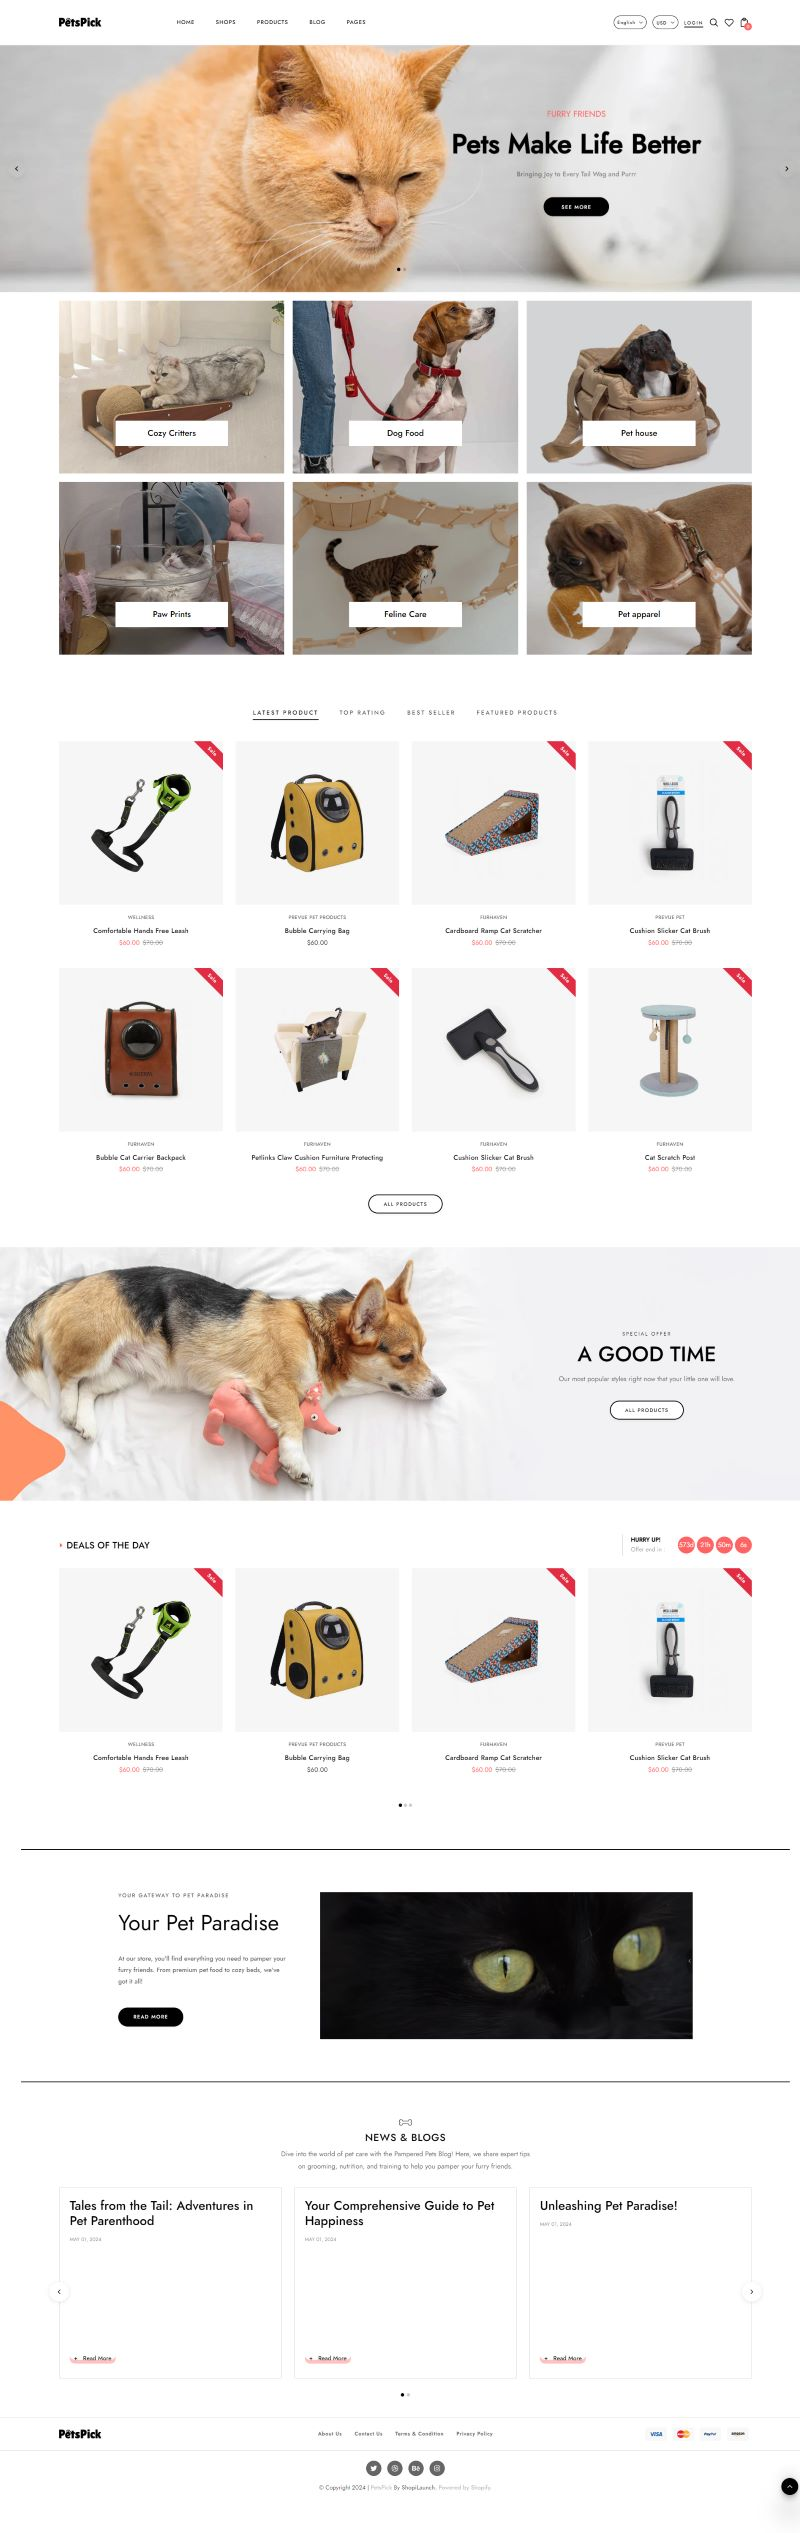
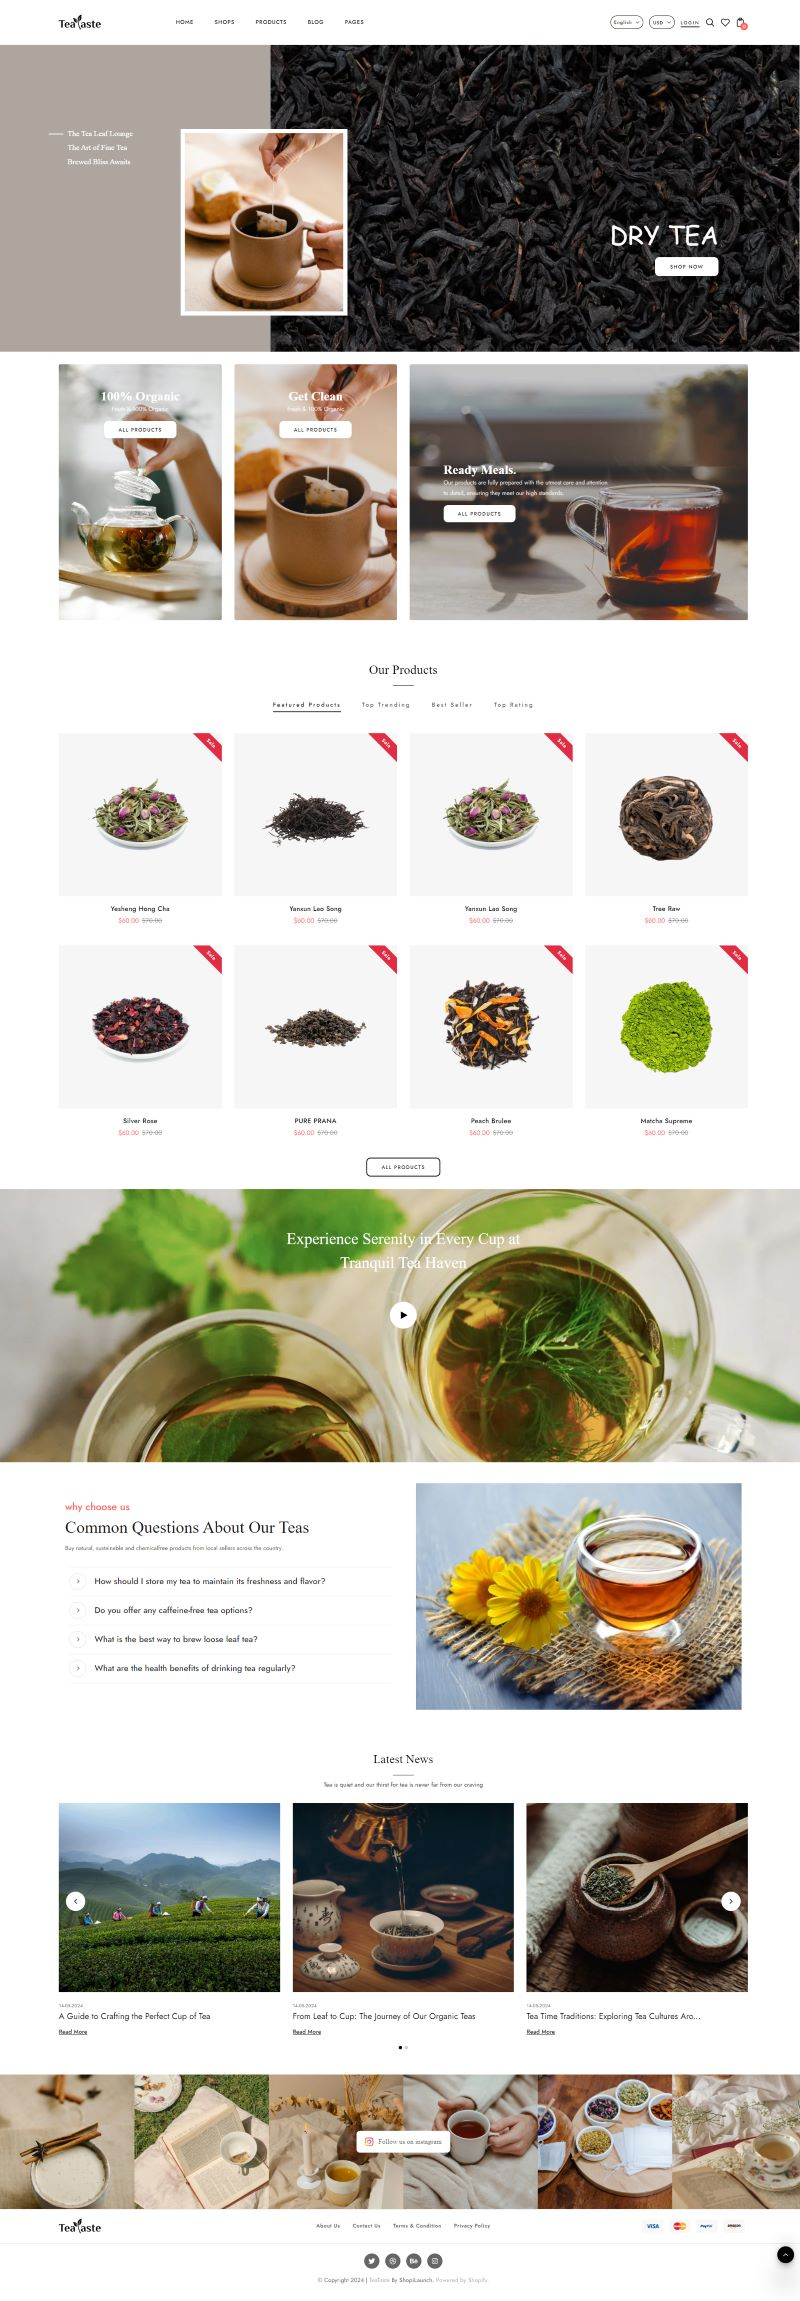
update image

diff --git a/index.html b/index.html
@@ -19,7 +19,7 @@
     <link href="https://fonts.googleapis.com/css2?family=Jost:ital,wght@1,300;1,400&family=Roboto&display=swap"
         rel="stylesheet">
     <link href="https://fonts.googleapis.com/css2?family=Yellowtail&display=swap" rel="stylesheet">
-    <title>PetsPick - Pet Store & Pet Care Shopify 2.0 Theme</title>
+    <title>TeaTaste - Organic Tea Store Responsive Shopify 2.0 Theme</title>
 </head>
 
 <body>
@@ -208,7 +208,7 @@
                 <div class="container-fluid demo-item text-center"
                     data-url="https://skine-store-demo.myshopify.com/?preview_theme_id=120244404431">
                     <h1 class="mb-5">
-                        Get Started With PetsPick<br><span>Pet Store & Pet Care Shopify 2.0 Theme</span>
+                        Get Started With TeaTaste<br><span>Organic Tea Store Responsive Shopify 2.0 Theme</span>
                     </h1>
                 </div>
                 <div class="container">
@@ -256,7 +256,7 @@
         <div class="header__bg"></div>
         <div id="product-layout" class="row-4 list-shop-layout">
             <div class="brand-heading">
-                The smart choice for ecommerce: Over <span>15,000+</span> brands trust PetsPick to build their Shopify
+                The smart choice for ecommerce: Over <span>15,000+</span> brands trust TeaTaste to build their Shopify
                 stores!
             </div>
             <div class="shop-layout-content">
@@ -380,7 +380,7 @@
                 <div class="row content">
                     <div class="col-sm-6 col-md-4 col-lg-4 wow fadeInUp" data-wow-delay="0.1s">
                         <div class="demo-item"
-                            data-url="https://PetsPick-store-newdemo.myshopify.com/">
+                            data-url="https://TeaTaste-store-newdemo.myshopify.com/">
                             <div class="demo-thumb-wrap">
                                 <div class="demo-thumb demo1">
                                     <span class="new">new</span>
@@ -408,7 +408,7 @@
                     <div class="col-sm-6 col-md-4 col-lg-4 wow fadeInUp" data-wow-delay="0.2s"
                         style="visibility: visible; animation-delay: 0.2s; animation-name: fadeInUp;">
                         <div class="demo-item"
-                            data-url="https://PetsPick-store-newdemo.myshopify.com/pages/home-2">
+                            data-url="https://TeaTaste-store-newdemo.myshopify.com/pages/home-2">
                             <div class="demo-thumb-wrap">
                                 <div class="demo-thumb demo2">
                                     <span class="new">new</span>
@@ -437,7 +437,7 @@
                     <div class="col-sm-6 col-md-4 col-lg-4 wow fadeInUp" data-wow-delay="0.3s"
                         style="visibility: visible; animation-delay: 0.3s; animation-name: fadeInUp;">
                         <div class="demo-item"
-                            data-url="https://PetsPick-store-newdemo.myshopify.com/pages/home-3">
+                            data-url="https://TeaTaste-store-newdemo.myshopify.com/pages/home-3">
                             <div class="demo-thumb-wrap">
                                 <div class="demo-thumb demo3">
                                     <span class="new">new</span>
@@ -466,7 +466,7 @@
                     <div class="col-sm-6 col-md-4 col-lg-4 wow fadeInUp" data-wow-delay="0.4s"
                         style="visibility: visible; animation-delay: 0.4s; animation-name: fadeInUp;">
                         <div class="demo-item"
-                            data-url="https://PetsPick-store-newdemo.myshopify.com/pages/home-4">
+                            data-url="https://TeaTaste-store-newdemo.myshopify.com/pages/home-4">
                             <div class="demo-thumb-wrap">
                                 <div class="demo-thumb demo4">
                                     <a class="js-demo-link-click" href="javascript:void(0)"></a>
@@ -494,7 +494,7 @@
                     <div class="col-sm-6 col-md-4 col-lg-4 wow fadeInUp" data-wow-delay="0.5s"
                         style="visibility: visible; animation-delay: 0.5s; animation-name: fadeInUp;">
                         <div class="demo-item"
-                            data-url="https://PetsPick-store-newdemo.myshopify.com/pages/home-5">
+                            data-url="https://TeaTaste-store-newdemo.myshopify.com/pages/home-5">
                             <div class="demo-thumb-wrap">
                                 <div class="demo-thumb demo5">
                                     <a class="js-demo-link-click" href="javascript:void(0)"></a>
@@ -545,7 +545,7 @@
                 <div class="row content">
                     <div class="layout-item wow fadeInUp2">
                         <div class="shop-layout-thumb"
-                            data-url="https://PetsPick-store-newdemo.myshopify.com/collections/bags">
+                            data-url="https://TeaTaste-store-newdemo.myshopify.com/collections/bags">
                             <div class="demo-layout layout1">
                                 <a class="js-link-click-layout" href="javascript:void(0)">
                                     <img src="assets/images/shop_layout_1.png" alt="">
@@ -559,7 +559,7 @@
                     <div class="layout-item wow fadeInUp2" data-wow-delay="1s"
                         style="visibility: visible; animation-delay: 1s; animation-name: fadeInUp2;">
                         <div class="shop-layout-thumb"
-                            data-url="https://PetsPick-store-newdemo.myshopify.com/collections/shoes">
+                            data-url="https://TeaTaste-store-newdemo.myshopify.com/collections/shoes">
                             <div class="demo-layout layout10">
                                 <a class="js-link-click-layout" href="javascript:void(0)">
                                     <img src="assets/images/shop_layout_2.png" alt="">
@@ -573,7 +573,7 @@
                     <div class="layout-item wow fadeInUp2" data-wow-delay="0.2s"
                         style="visibility: visible; animation-delay: 0.2s; animation-name: fadeInUp2;">
                         <div class="shop-layout-thumb"
-                            data-url="https://PetsPick-store-newdemo.myshopify.com/collections/hats">
+                            data-url="https://TeaTaste-store-newdemo.myshopify.com/collections/hats">
                             <div class="demo-layout layout2">
                                 <a class="js-link-click-layout" href="javascript:void(0)">
                                     <img src="assets/images/shop_layout_3.png" alt="">
@@ -587,7 +587,7 @@
                     <div class="layout-item wow fadeInUp2" data-wow-delay="0.3s"
                         style="visibility: visible; animation-delay: 0.3s; animation-name: fadeInUp2;">
                         <div class="shop-layout-thumb"
-                            data-url="https://PetsPick-store-newdemo.myshopify.com/collections">
+                            data-url="https://TeaTaste-store-newdemo.myshopify.com/collections">
                             <div class="demo-layout layout3">
                                 <a class="js-link-click-layout" href="javascript:void(0)">
                                     <img src="assets/images/shop_layout_4.png" alt="">
@@ -601,7 +601,7 @@
                     <div class="layout-item wow fadeInUp2" data-wow-delay="0.3s"
                         style="visibility: visible; animation-delay: 0.3s; animation-name: fadeInUp2;">
                         <div class="shop-layout-thumb"
-                            data-url="https://PetsPick-store-newdemo.myshopify.com/collections/tech">
+                            data-url="https://TeaTaste-store-newdemo.myshopify.com/collections/tech">
                             <div class="demo-layout layout3">
                                 <a class="js-link-click-layout" href="javascript:void(0)">
                                     <img src="assets/images/shop_layout_5.png" alt="">
@@ -615,7 +615,7 @@
                     <div class="layout-item wow fadeInUp2" data-wow-delay="0.4s"
                         style="visibility: visible; animation-delay: 0.4s; animation-name: fadeInUp2;">
                         <div class="shop-layout-thumb"
-                            data-url="https://PetsPick-store-newdemo.myshopify.com/collections/sweatpants">
+                            data-url="https://TeaTaste-store-newdemo.myshopify.com/collections/sweatpants">
                             <div class="demo-layout layout4">
                                 <a class="js-link-click-layout" href="javascript:void(0)">
                                     <img src="assets/images/shop_layout_6.png" alt="">
@@ -629,7 +629,7 @@
                     <div class="layout-item wow fadeInUp2" data-wow-delay="1s"
                         style="visibility: visible; animation-delay: 1s; animation-name: fadeInUp2;">
                         <div class="shop-layout-thumb"
-                            data-url="https://PetsPick-store-newdemo.myshopify.com/collections/sweatsuits">
+                            data-url="https://TeaTaste-store-newdemo.myshopify.com/collections/sweatsuits">
                             <div class="demo-layout layout10">
                                 <a class="js-link-click-layout" href="javascript:void(0)">
                                     <img src="assets/images/shop_layout_7.png" alt="">
@@ -643,7 +643,7 @@
                     <div class="layout-item wow fadeInUp2" data-wow-delay="0.7s"
                         style="visibility: visible; animation-delay: 0.7s; animation-name: fadeInUp2;">
                         <div class="shop-layout-thumb"
-                            data-url="https://PetsPick-store-newdemo.myshopify.com/collections/best-seller">
+                            data-url="https://TeaTaste-store-newdemo.myshopify.com/collections/best-seller">
                             <div class="demo-layout layout7">
                                 <a class="js-link-click-layout" href="javascript:void(0)">
                                     <img src="assets/images/shop_layout_8.png" alt="">
@@ -657,7 +657,7 @@
                     <div class="layout-item wow fadeInUp2" data-wow-delay="0.8s"
                         style="visibility: visible; animation-delay: 0.8s; animation-name: fadeInUp2;">
                         <div class="shop-layout-thumb"
-                            data-url="https://PetsPick-store-newdemo.myshopify.com/collections/jewerly">
+                            data-url="https://TeaTaste-store-newdemo.myshopify.com/collections/jewerly">
                             <div class="demo-layout layout8">
                                 <a class="js-link-click-layout" href="javascript:void(0)">
                                     <img src="assets/images/shop_layout_9.png" alt="">
@@ -698,7 +698,7 @@
                             <div class="col-sm-6 col-md-4 col-lg-4" style="visibility: visible;">
 
                                 <div class="shop-layout-thumb"
-                                    data-url="https://PetsPick-store-newdemo.myshopify.com/collections/kid">
+                                    data-url="https://TeaTaste-store-newdemo.myshopify.com/collections/kid">
                                     <div class="demo-layout layout8">
                                         <a class="js-link-click-layout" href="javascript:void(0)">
                                             <img src="assets/images/shop_layout_11.png" alt="">
@@ -711,7 +711,7 @@
                             </div>
                             <div class="col-sm-6 col-md-4 col-lg-4" style="visibility: visible;">
                                 <div class="shop-layout-thumb"
-                                    data-url="https://PetsPick-store-newdemo.myshopify.com/collections/fashion">
+                                    data-url="https://TeaTaste-store-newdemo.myshopify.com/collections/fashion">
                                     <div class="demo-layout layout8">
                                         <a class="js-link-click-layout" href="javascript:void(0)">
                                             <img src="assets/images/shop_layout_10.png" alt="">
@@ -724,7 +724,7 @@
                             </div>
                             <div class="col-sm-6 col-md-4 col-lg-4" style="visibility: visible;">
                                 <div class="shop-layout-thumb"
-                                    data-url="https://PetsPick-store-newdemo.myshopify.com/collections/life-style">
+                                    data-url="https://TeaTaste-store-newdemo.myshopify.com/collections/life-style">
                                     <div class="demo-layout layout8">
                                         <a class="js-link-click-layout" href="javascript:void(0)">
                                             <img src="assets/images/shop_layout_12.png" alt="">
@@ -737,7 +737,7 @@
                             </div>
                             <div class="col-sm-6 col-md-4 col-lg-4" style="visibility: visible;">
                                 <div class="shop-layout-thumb"
-                                    data-url="https://PetsPick-store-newdemo.myshopify.com/collections/beachwear">
+                                    data-url="https://TeaTaste-store-newdemo.myshopify.com/collections/beachwear">
                                     <div class="demo-layout layout8">
                                         <a class="js-link-click-layout" href="javascript:void(0)">
                                             <img src="assets/images/shop_layout_13.png" alt="">
@@ -750,7 +750,7 @@
                             </div>
                             <div class="col-sm-6 col-md-4 col-lg-4" style="visibility: visible;">
                                 <div class="shop-layout-thumb"
-                                    data-url="https://PetsPick-store-newdemo.myshopify.com/collections/sunsets">
+                                    data-url="https://TeaTaste-store-newdemo.myshopify.com/collections/sunsets">
                                     <div class="demo-layout layout8">
                                         <a class="js-link-click-layout" href="javascript:void(0)">
                                             <img src="assets/images/shop_layout_14.png" alt="">
@@ -763,7 +763,7 @@
                             </div>
                             <div class="col-sm-6 col-md-4 col-lg-4" style="visibility: visible;">
                                 <div class="shop-layout-thumb"
-                                    data-url="https://PetsPick-store-newdemo.myshopify.com/collections/bikili">
+                                    data-url="https://TeaTaste-store-newdemo.myshopify.com/collections/bikili">
                                     <div class="demo-layout layout8">
                                         <a class="js-link-click-layout" href="javascript:void(0)">
                                             <img src="assets/images/shop_layout_15.png" alt="">
@@ -776,7 +776,7 @@
                             </div>
                             <div class="col-sm-6 col-md-4 col-lg-4" style="visibility: visible;">
                                 <div class="shop-layout-thumb"
-                                    data-url="https://PetsPick-store-newdemo.myshopify.com/collections/barber">
+                                    data-url="https://TeaTaste-store-newdemo.myshopify.com/collections/barber">
                                     <div class="demo-layout layout8">
                                         <a class="js-link-click-layout" href="javascript:void(0)">
                                             <img src="assets/images/shop_layout_16.png" alt="">
@@ -789,7 +789,7 @@
                             </div>
                             <div class="col-sm-6 col-md-4 col-lg-4" style="visibility: visible;">
                                 <div class="shop-layout-thumb"
-                                    data-url="https://PetsPick-store-newdemo.myshopify.com/collections/bridal-dresses">
+                                    data-url="https://TeaTaste-store-newdemo.myshopify.com/collections/bridal-dresses">
                                     <div class="demo-layout layout8">
                                         <a class="js-link-click-layout" href="javascript:void(0)">
                                             <img src="assets/images/shop_layout_17.png" alt="">
@@ -802,7 +802,7 @@
                             </div>
                             <div class="col-sm-6 col-md-4 col-lg-4" style="visibility: visible;">
                                 <div class="shop-layout-thumb"
-                                    data-url="https://PetsPick-store-newdemo.myshopify.com/collections/trending">
+                                    data-url="https://TeaTaste-store-newdemo.myshopify.com/collections/trending">
                                     <div class="demo-layout layout8">
                                         <a class="js-link-click-layout" href="javascript:void(0)">
                                             <img src="assets/images/shop_layout_18.png" alt="">
@@ -3557,7 +3557,7 @@
                 <div class="container-fluid">
                     <div class="banner-footer-inner">
                         <p class="wow fadeInUp animated">You are at the right step now</p>
-                        <h3 class="wow fadeInUp animated">Purchase PetsPick & Create Beautiful Online Stores</h3>
+                        <h3 class="wow fadeInUp animated">Purchase TeaTaste & Create Beautiful Online Stores</h3>
                         <a class="wow fadeInUp animated" target="_blank"
                             href="https://themeforest.net/user/shopilaunch/portfolio">Buy Now</a>
                     </div>
